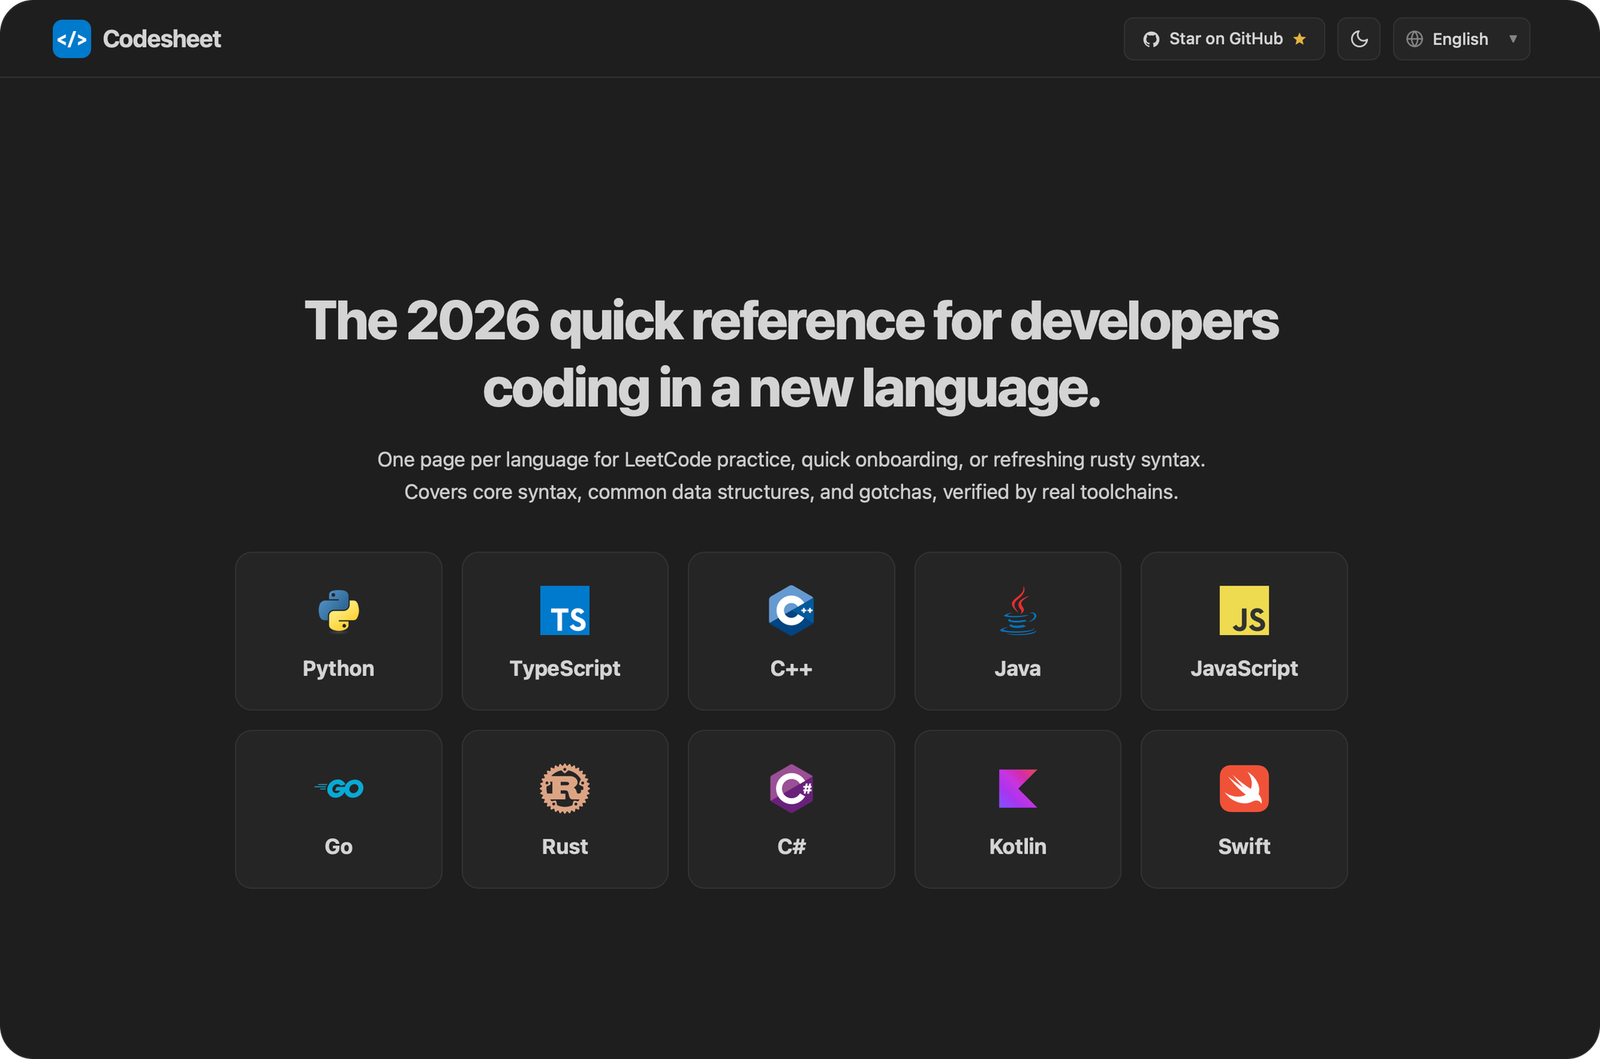
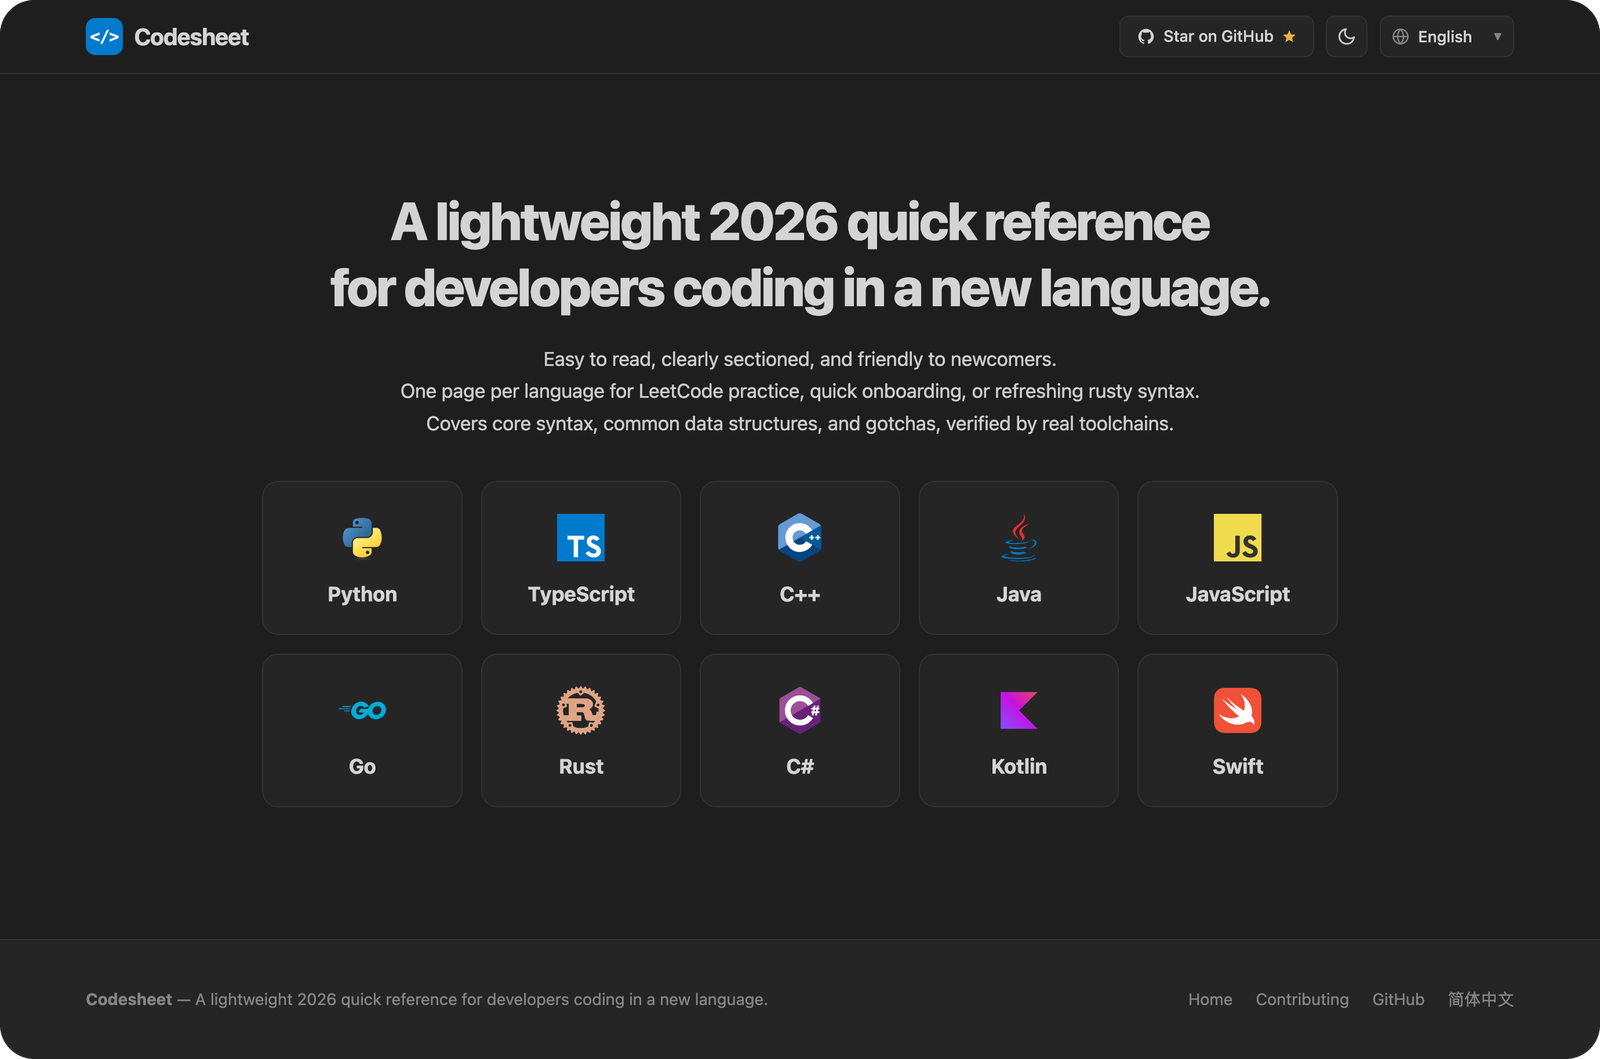
copy: lead with "lightweight" in README, homepage and preview cards
Add lightweight to the tagline and a new first line under it (EN: "Easy to
read, clearly sectioned, and friendly to newcomers." / ZH: 轻量易读、章节
清晰、新手友好。), a Lightweight / 轻量易读 bullet at the top of Why
Codesheet, and matching wording in meta descriptions, footer, default
description, preview cards and package.json. Drop the remaining
「一门语言一页纸」 from the Chinese card and its alt text. Regenerate
og.png, og-zh.png and the README screenshot.

diff --git a/scripts/brand/card.html b/scripts/brand/card.html
@@ -79,8 +79,8 @@
     ? '编程语言<em>速查表</em>'
     : 'Programming language<br /><em>cheat sheets</em>';
   document.getElementById('sub').innerHTML = zh
-    ? '一门语言一页纸，代码优先。<br />每个示例都经过真实工具链验证。'
-    : 'One page per language, code first.<br />Every example verified by a real toolchain.';
+    ? '轻量好读，代码优先。<br />每个示例都经过真实工具链验证。'
+    : 'Lightweight and code first.<br />Every example verified by a real toolchain.';
   const ids = ['python', 'javascript', 'typescript', 'java', 'cpp', 'csharp', 'go', 'rust', 'kotlin', 'swift'];
   document.getElementById('icons').innerHTML = ids
     .map((id) => `<div><img src="../../public/icons/${id}.svg" alt="" /></div>`)

diff --git a/README.md b/README.md
@@ -4,8 +4,9 @@
 
 # Codesheet
 
-**The 2026 quick reference for developers coding in a new language.**
+**A lightweight 2026 quick reference for developers coding in a new language.**
 
+Easy to read, clearly sectioned, and friendly to newcomers.<br>
 One page per language for LeetCode practice, quick onboarding, or refreshing rusty syntax.<br>
 
 [![Check sheets](https://github.com/Kepler2024/Codesheet/actions/workflows/check.yml/badge.svg)](https://github.com/Kepler2024/Codesheet/actions/workflows/check.yml)
@@ -67,6 +68,7 @@ CI checks each of these answers against the real toolchain on every pull request
 
 ## Why Codesheet
 
+- **Lightweight.** Each language gets one short sheet with clear sections, instead of a thick manual. You can read it in one sitting and come away with what you need to start writing code.
 - **Code first.** A sheet is code with short comments that say why something works or where it bites. You won't find paragraphs of prose.
 - **Ideal for algorithm practice.** A sheet covers what you need to solve LeetCode-style problems, and it works as a quick reference when you come back to a language after a long break.
 - **One skeleton, multiple languages.** Every sheet has the same 15 sections in the same order, so you can open two side by side and compare how Java and Go handle heaps. A language that needs one more section gets it, such as Rust's *Ownership and Borrowing*.
@@ -77,7 +79,7 @@ CI checks each of these answers against the real toolchain on every pull request
 
 When I started practicing on NeetCode, I kept going back to the Python cheat sheet written by [@neetcode-gh](https://github.com/neetcode-gh). It covered the core syntax and the essential data structures in a remarkably compact, readable way. I soon found the format useful for much more than algorithm practice. It's the fastest way I know to get started in a new language, or to refresh one after a long break. But that sheet covers only Python.
 
-So I kept the format and took it further. Codesheet covers ten languages, and every sheet has the same 15 sections, so a new language reads like a page you already know, just in different syntax. CI compiles and runs every example against a pinned toolchain, so each output in a comment has been verified rather than written from memory. The `CAREFUL:` notes are written for people switching languages, and each one says exactly how this language differs from the ones you know. Every sheet also comes in both English and Chinese. I hope it saves you some time too.
+So I kept the format, short and easy to read, and took it further. Codesheet covers ten languages, and every sheet has the same 15 sections, so a new language reads like a page you already know, just in different syntax. CI compiles and runs every example against a pinned toolchain, so each output in a comment has been verified rather than written from memory. The `CAREFUL:` notes are written for people switching languages, and each one says exactly how this language differs from the ones you know. Every sheet also comes in both English and Chinese. I hope it saves you some time too.
 
 ## The sheets
 

diff --git a/README.zh-CN.md b/README.zh-CN.md
@@ -4,8 +4,9 @@
 
 # Codesheet
 
-**2026 主流编程语言速查表，助你快速入门一门新编程语言。**
+**2026 主流编程语言轻量速查表，助你快速入门一门新编程语言。**
 
+轻量易读、章节清晰、新手友好。<br>
 适合 LeetCode 刷题、快速入门，或重拾生疏的语法。<br>
 涵盖核心语法、常用数据结构和常见陷阱，全部代码经过真实工具链验证。
 
@@ -68,6 +69,7 @@
 
 ## 为什么选 Codesheet
 
+- **轻量易读。** 每门语言一份速查表，分类清晰，篇幅短，一次就能读完，不用啃厚厚的官方文档。
 - **代码优先。** 速查表的主体是代码，注释用一两句话说明原因或提醒陷阱，没有大段说明文字。
 - **算法题友好。** 内容覆盖用这门语言写 LeetCode 风格题解所需的知识，久未接触某门语言时也能随手翻查。
 - **一套骨架，多门语言。** 每份速查表都有相同的 15 个章节，顺序一致。你可以把两份并排打开逐节对照，比如看 Java 和 Go 各自怎么用堆。个别语言需要多一节，例如 Rust 的 *Ownership and Borrowing*。
@@ -78,7 +80,7 @@
 
 最初在 NeetCode 刷题时，我经常查阅作者 [@neetcode-gh](https://github.com/neetcode-gh) 编写的 Python 速查表。它在保持低阅读成本的同时，系统梳理了 Python 的核心语法与常用数据结构的用法。这种直观紧凑的形式不仅适合刷算法题，也非常适合有一定基础的开发者快速掌握一门新语言的骨架，或在久未接触某门语言时随时翻查常用写法。可惜它只覆盖 Python 一门语言。
 
-于是我保留了这种形式，并在此基础上更进一步。Codesheet 覆盖十门语言，每份速查表都是同样的 15 个章节，换一门语言就像重读一页熟悉的内容，只是语法不同。CI 用固定版本的工具链编译运行每个示例，注释里写的每个输出都经过实际验证，而不是凭记忆写下的。`CAREFUL:` 注释专为转换语言的人而写，明确指出这门语言与你熟悉的语言有什么不同。所有速查表都同时提供中英文版本。希望它能给各位编程学习者带来方便。
+于是我保留了这种简短好读的形式，并在此基础上更进一步。Codesheet 覆盖十门语言，每份速查表都是同样的 15 个章节，换一门语言就像重读一页熟悉的内容，只是语法不同。CI 用固定版本的工具链编译运行每个示例，注释里写的每个输出都经过实际验证，而不是凭记忆写下的。`CAREFUL:` 注释专为转换语言的人而写，明确指出这门语言与你熟悉的语言有什么不同。所有速查表都同时提供中英文版本。希望它能给各位编程学习者带来方便。
 
 ## 速查表
 
